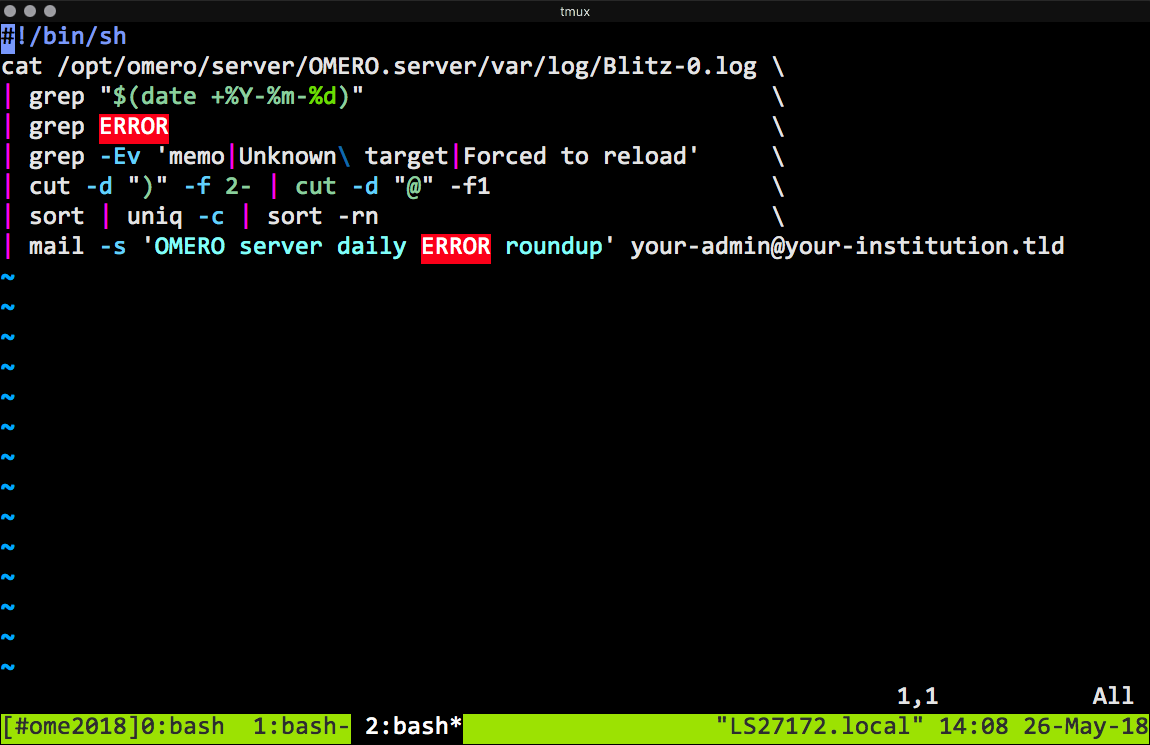
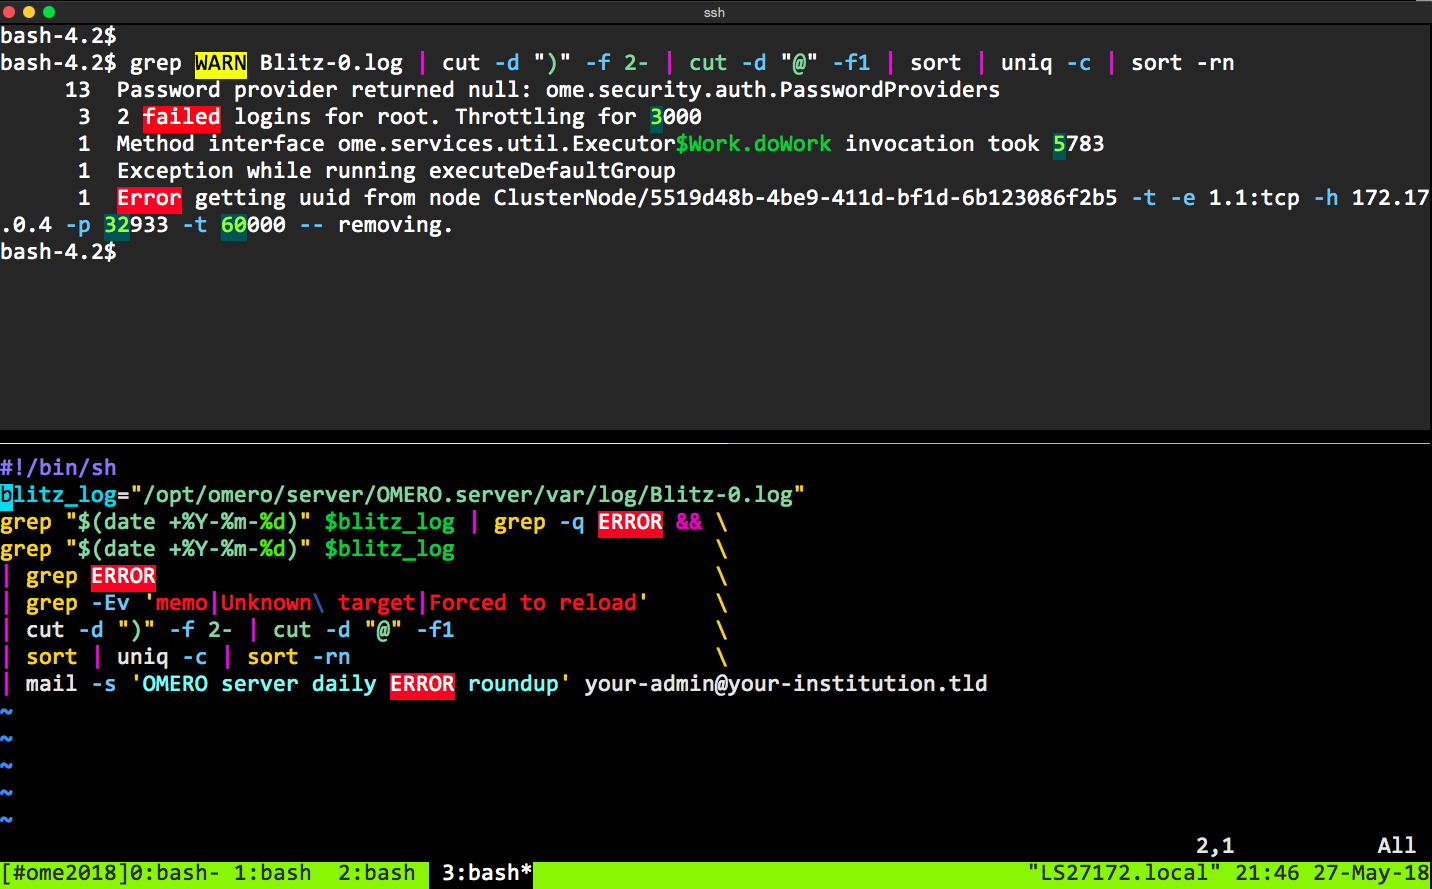
improved cron parse email, more screenshots

diff --git a/2018/Users-Meeting/Workshops/deployment-kenny/index.html b/2018/Users-Meeting/Workshops/deployment-kenny/index.html
@@ -39,8 +39,7 @@
                 <!-- title page -->
                 <section data-background="http://users.openmicroscopy.org.uk/~spli/ome2018-system-monitoring-images/everything-is-fine.jpg">
                 </section>
-
-                <section data-background="images/c6n00-servers.jpg">
+                <section data-background="images/sa-tech.png">
                 </section>
 
                 <section>
@@ -56,23 +55,29 @@
                 </section>
 
                 <section>
-                    <h2>Only got an OMERO server?</h2>
-
                     <img src="images/parse-logs-email.png">
+                    <p><a href="http://localhost">🜽  shell scripts (gitlab incubator)</a></p>
                 </section>
 
-<section>
-	<pre><code data-trim data-noescape>
-#!/bin/sh
-cat /opt/omero/server/OMERO.server/var/log/Blitz-0.log \
-| grep "$(date +%Y-%m-%d)" \
-| grep ERROR  \
-| grep -Ev 'memo|Unknown\ target|Forced to reload' \
-| cut -d ")" -f 2- | cut -d "@" -f1 \
-| sort | uniq -c | sort -rn \
-| mail -s 'OMERO server daily ERROR roundup' your-admin@your-institution.tld
-	</code></pre>
-</section>
+                <section>
+	            <pre><code data-trim data-noescape>
+bash-4.2$ omero group add --type read-only public-data
+Using session 302f74f9-dd22-41f3-8d53-e0eaa9287a35 (root@localhost:4064). 
+Idle timeout: 10 min. Current group: system
+Added group public-data (id=53) with permissions rwr---
+	           </code></pre>
+               </section>
+                
+                <section>
+                    <img src="images/terminal-group-list-user-list.png" >
+                    <p><a href="http://localhost">🜽 public user docs</a></p>
+                </section>
+       
+                <!-- omero sessions who  -->
+                <section>
+                    <img src="images/terminal-group-list-user-list.png" >
+                    <p><a href="http://localhost">🜽 public user docs</a></p>
+                </section>
                 
                 <section>
                     <h2>Check_MK - overview</h2>
@@ -82,7 +87,6 @@ cat /opt/omero/server/OMERO.server/var/log/Blitz-0.log \
                 
                 <section>
                     <h2>Check_MK - overview</h2>
-
                     <a href="https://gist.github.com/kennethgillen/bbaeb236d7945344407d6bb3bde56bc9"></a>
                 </section>
 
